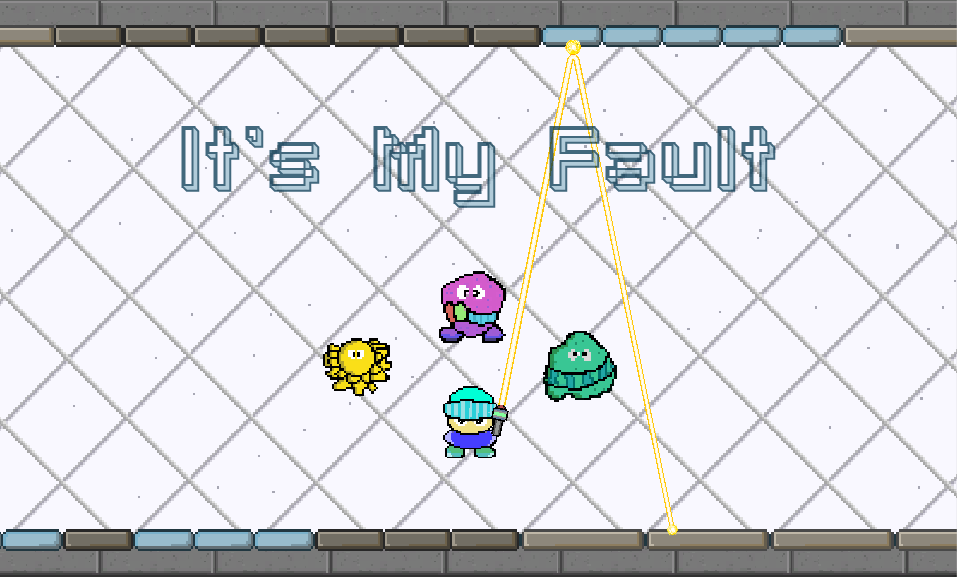
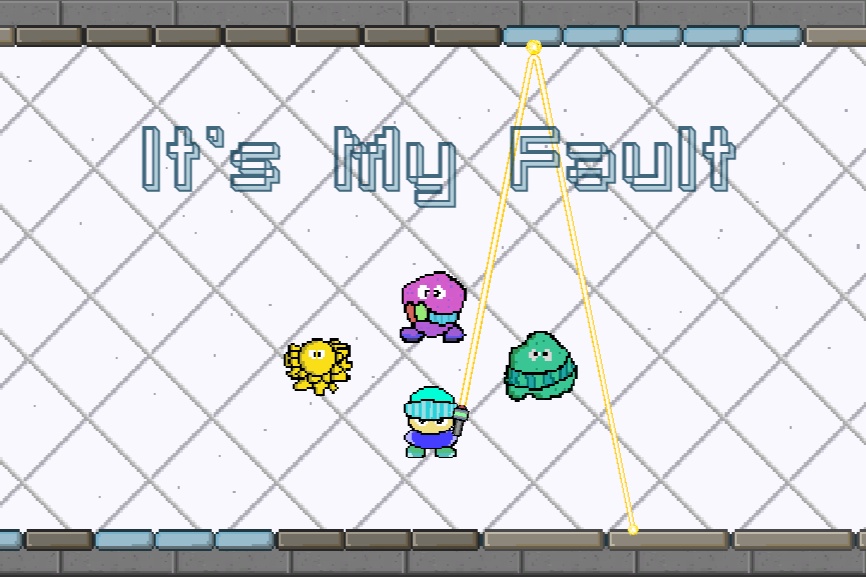
Updated portfolio
Changed phone layout and resource images

diff --git a/index.html b/index.html
@@ -18,8 +18,13 @@
       <div class="intro-item text">
         <h1>Arnab Raha</h1>
         <p>
-          Undergraduate student, Department of Civil Engineering, BUET, Dhaka, Bangladesh.
+          Undergraduate student, Department of Civil Engineering, BUET, Dhaka, Bangladesh
         </p>
+        <div class="into-links">
+          <a href="mailto:arnab.raha@outlook.com">email</a>
+          <a href="https://github.com/intbyte">GitHub</a>
+          <a href="https://www.researchgate.net/profile/Arnab-Raha-2">ResearchGate</a>
+        </div>
       </div>
     </div>
 
@@ -28,6 +33,7 @@
       <a href="#education">Education</a>
       <a href="#publications">Publications</a>
       <a href="#projects">Projects</a>
+      <a href="#achievements">Achievements</a>
       <a href="#contact">Contact</a>
     </div>
 
@@ -35,19 +41,19 @@
       <h2>About</h2>
       <p>
         <img src="images/2.jpg" class="about-img">
-        Hello, I’m Arnab Raha, a civil engineering student at the Bangladesh University of Engineering and Technology (BUET). My interests lie in modeling, simulation, optimization, and the growing role of artificial intelligence in solving civil engineering problems. I’m particularly drawn to data-driven approaches that connect theoretical ideas with practical systems.<br>
-        <br>I spent a good part of my school years participating in programming contests, math olympiads, and working on platforms like Codeforces—often without notable achievements. But I kept going, mostly because I enjoyed thinking through problems, even when the results didn’t follow.<br>
-        <br>Over time, that persistence evolved into a more focused interest in computational methods. Alongside my academic work, I’ve developed experience with tools like QGIS, AutoCAD, and MATLAB, and programming in C, C++, C#, and Python. Earlier, I had strong interest in game development and learned Unity, and that passion had me the opportunity to secure 3rd place in GameJam of BUET CSE Fest 2024. I’ve also worked on projects ranging from CAD competitions to research-based studies and actively involved in clubs such as the American Concrete Institute, American Society of Civil Engineers, and the BUET Robotics Society.
-        Outside of academics, I enjoy traveling and exploring new places, especially experiences that involve a sense of challenge or adventure<br>
-        <br>A key area of my work has been the modeling and optimization of metro rail headways in Dhaka using simulation and genetic algorithms. What began as a conceptual idea evolved into a more rigorous study, ultimately leading to a conference publication. More recently, I completed a project focused on analyzing particle dynamics from video for flocculation studies, which provided valuable experience in experimental analysis and data interpretation<br>
-        <br>I tend to think about things longer than I probably should—sometimes about problems that don’t really matter. But every now and then, those “unnecessary” thoughts end up leading somewhere interesting.
+        Hello, I’m Arnab Raha, a civil engineering student at the Bangladesh University of Engineering and Technology (BUET). My interests lie in modeling, simulation, optimization, and the application of artificial intelligence in solving civil engineering problems. I am particularly interested in data-driven approaches that connect theoretical concepts with real-world systems.<br><br>
+        I developed an early interest in problem solving through programming contests and olympiads, often without notable success—but the process itself kept me engaged and shaped how I approach problems today.<br><br>
+        Over time, this evolved into a stronger focus on computational methods. Alongside my academic work, I have gained experience with tools such as QGIS, AutoCAD, and MATLAB, and programming in C, C++, C#, and Python. I have also explored game development using Unity, which led to securing 3rd place in the BUET CSE Fest Game Jam 2024. I remain actively involved in collaborative work through organizations such as the American Concrete Institute, American Society of Civil Engineers, and the BUET Robotics Society.<br><br>
+        A key area of my work has been the modeling and optimization of metro rail headways in Dhaka using simulation and genetic algorithms, which eventually led to a conference publication. More recently, I worked on analyzing particle dynamics from video for flocculation studies, strengthening my interest in experimental and data-driven analysis. I also continue to explore the use of AI models in engineering contexts.<br><br>
+        Outside of academics, I enjoy traveling and exploring new places, especially experiences that involve a sense of challenge or adventure.<br><br>
+        I tend to think about things longer than I probably should—sometimes about problems that don’t really matter. But every now and then, those “unnecessary” thoughts end up leading somewhere interesting.
       </p>
     </div>
 
     <div class="section" id="education">
       <h2>Education</h2>
 
-      <div class="education">
+      <div class="timed event">
         <div class="time">2023 – Present</div>
         <div class="details">
           <strong>Bachelor of Science (BSc) in Civil Engineering</strong>
@@ -55,7 +61,7 @@
         </div>
       </div>
 
-      <div class="education">
+      <div class="timed event">
         <div class="time">2022</div>
         <div class="details">
           <strong>Higher Secondary School Certificate (HSC)</strong>
@@ -64,7 +70,7 @@
         </div>
       </div>
 
-      <div class="education">
+      <div class="timed event">
         <div class="time">2020</div>
         <div class="details">
           <strong>Secondary School Certificate (SSC)</strong>
@@ -155,6 +161,47 @@
       </div>
     </div>
 
+    <div class="section" id="achievements">
+      <h2>Awards & Achievements</h2>
+
+      <div class="timed event">
+        <div class="time">July, 2025</div>
+        <div class="details">
+          <strong>2nd Runner-up: Poster Presentation</strong>
+          <div>Cennovation 2025</div>
+          <div>Islamic University of Technology (IUT)</div>
+        </div>
+      </div>
+
+      <div class="timed event">
+        <div class="time">April, 2025</div>
+        <div class="details">
+          <strong>Champion: CADZILLA (AutoCAD Competition)</strong>
+          <div>The Odyssey 2025</div>
+          <div>Chittagong University of Engineering and Technology (CUET)</div>
+        </div>
+      </div>
+
+      <div class="timed event">
+        <div class="time">October, 2024</div>
+        <div class="details">
+          <strong>Rising Team: Poster Presentation</strong>
+          <div>United Group Presents BUET CSE Fest 2024</div>
+          <div>Bangladesh University of Engineering and Technology (BUET)</div>
+        </div>
+      </div>
+
+      <div class="timed event">
+        <div class="time">July, 2023</div>
+        <div class="details">
+          <strong>2nd Runner-up: GameJam</strong>
+          <div>BJIT Presents BUET CSE Fest 2023</div>
+          <div>Bangladesh University of Engineering and Technology (BUET)</div>
+        </div>
+      </div>
+
+    </div>
+
     <div class="section" id="contact">
       <h2>Contact</h2>
       <div class="contact-item">
@@ -185,6 +232,7 @@
     </div>
 
   </div>
+
   <script>
     const nav = document.querySelector(".nav");
     const links = document.querySelectorAll(".nav a");

diff --git a/css/styles.css b/css/styles.css
@@ -9,12 +9,12 @@ body {
 }
 
 .container {
-    max-width: 60vw;
+    max-width: 800px;
     width: 100%;
     border: 2px solid #000;
     border-radius: 10px;
     padding: 30px;
-    line-height: 1.2;
+    line-height: 1.35;
     background: #F2F0EF;
 }
 
@@ -52,6 +52,10 @@ p {
 a {
     color: #000;
     text-decoration: underline;
+}
+
+a:hover {
+    opacity: 0.7;
 }
 
 /* Navigation */
@@ -108,7 +112,7 @@ a {
 
 /* Sections */
 .section {
-    margin-top: 40px;
+    margin-top: 50px;
     scroll-margin-top: 50px;
 }
 
@@ -126,8 +130,8 @@ a {
     margin-right: 0px;
 }
 
-/* Education */
-.education {
+/* Timed Events */
+.timed.event {
     display: grid;
     grid-template-columns: 20% 1fr;
     gap: 20px;
@@ -136,25 +140,27 @@ a {
     font-size: 14px;
 }
 
-.education .time {
+.timed.event .time {
     font-size: 16px;
     color: #666;
     font-weight: 600;
+    font-style: italic;
     text-align: right;
 }
 
-.education p {
+.timed.event p {
     color: #333;
     margin: 6px 0;
 }
 
-.education strong {
+.timed.event strong {
     display: block;
     font-size: 16px;
+    font-weight: 700;
     color: #000;
 }
 
-.education:not(:last-child) {
+.timed.event:not(:last-child) {
     border-bottom: 2px solid #ccc;
     padding-bottom: 15px;
 }
@@ -162,7 +168,7 @@ a {
 /* About */
 .about-img {
     float: right;
-    width: 40%;
+    max-width: 250px;
     margin: 0 0 10px 20px;
     border: 1px solid #000;
     border-radius: 6px;
@@ -195,7 +201,7 @@ a {
 .pub-desc {
     font-size: 14px;
     color: #333;
-    line-height: 1.2;
+    line-height: 1.35;
     margin-bottom: 6px;
 }
 
@@ -243,7 +249,7 @@ a {
 .proj-desc {
     font-size: 14px;
     color: #333;
-    line-height: 1.2;
+    line-height: 1.35;
 }
 
 .proj-link {
@@ -284,6 +290,7 @@ a {
   .container {
     max-width: 100%;
     padding: 20px;
+    padding-top: 15vw;
     border-radius: 0;
     border: none;
   }
@@ -305,11 +312,17 @@ a {
 
   .intro-item.image img {
     width: 60vw;
-    height: auto;
+    height: 60vw;
+    object-fit: cover;
+    border-radius: 50%;  /* makes it a circle */
+    display: block;
+    margin: 0 auto;      /* center it */
+    border: 2px solid #000;
   }
 
   /* Navigation */
   .nav {
+    display: none;
     flex-wrap: wrap;
     align-items: center;
     justify-content: center;
@@ -330,21 +343,23 @@ a {
   }
 
   /* Education → stack */
-  .education {
+  .timed.event {
     grid-template-columns: 1fr;
-    gap: 8px;
+    gap: 2px;
   }
 
-  .education .time {
+  .timed.event .time {
     text-align: left;
     font-size: 14px;
   }
 
   /* About image → remove float */
   .about-img {
-    float: none;
-    width: 100%;
-    margin: 10px 0;
+    float: none;              /* IMPORTANT: reset float */
+    display: block;
+    max-width: 90%;          /* let it scale with screen */
+    height: auto;
+    margin: 10px auto;        /* center it */
   }
 
   #about p {
